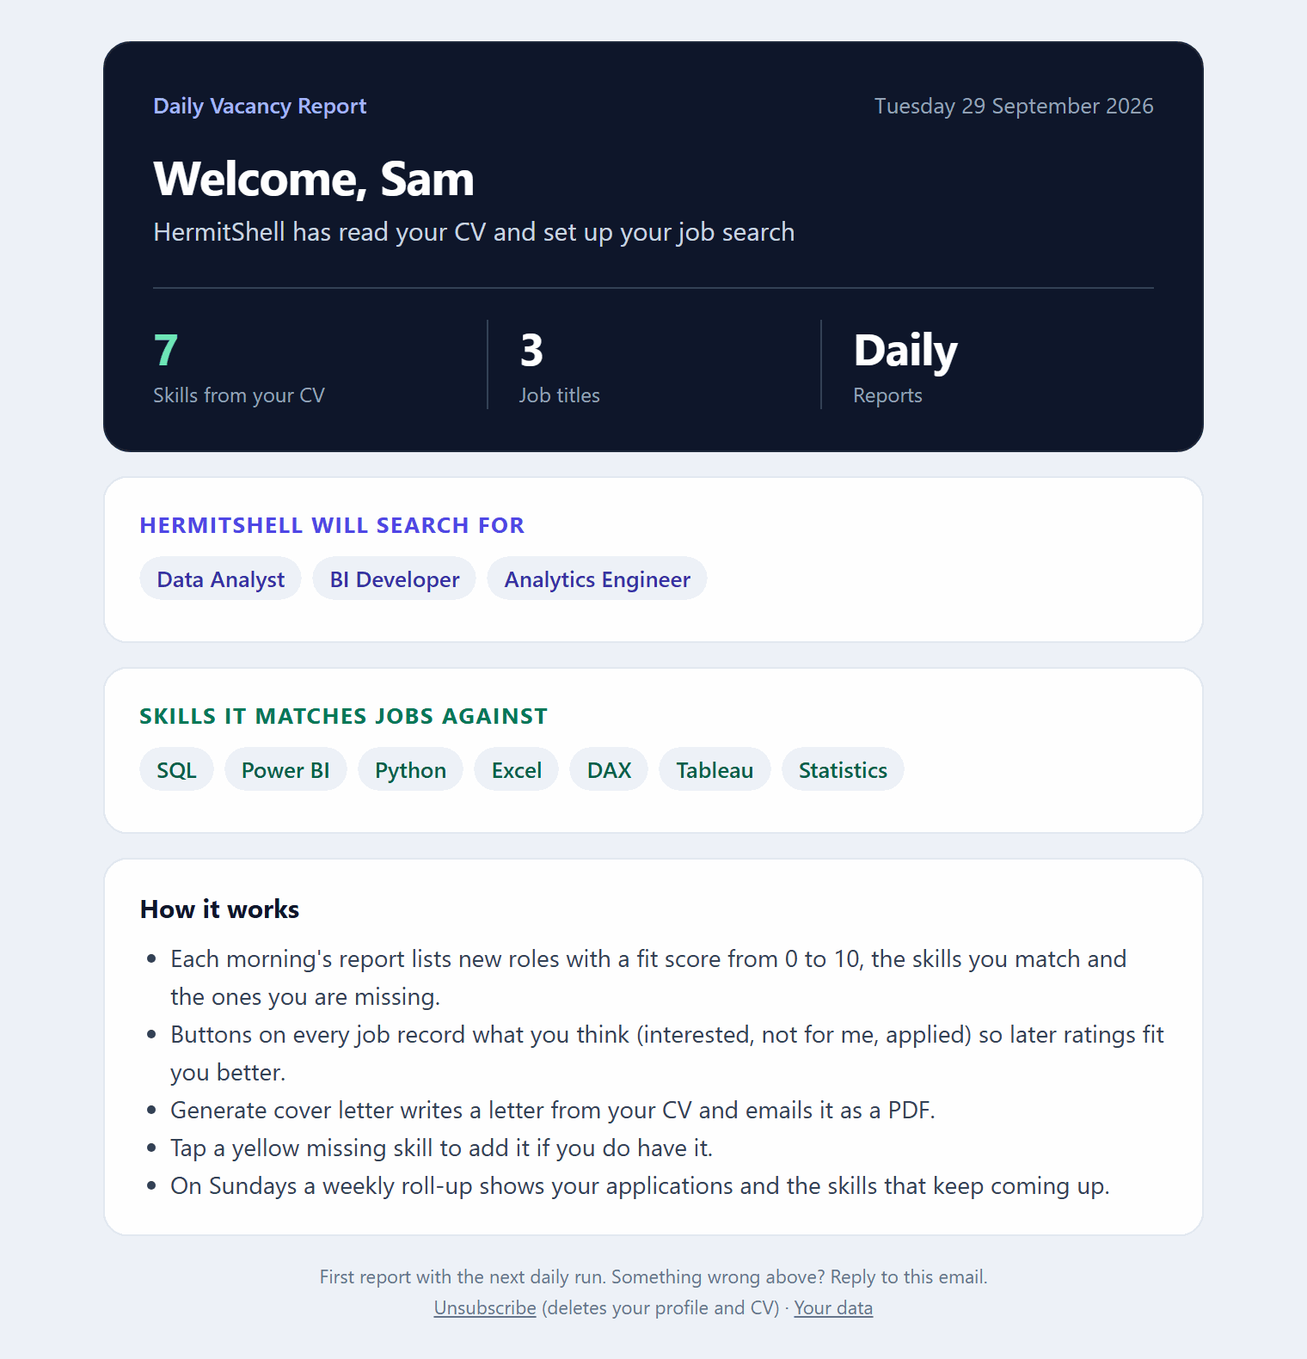
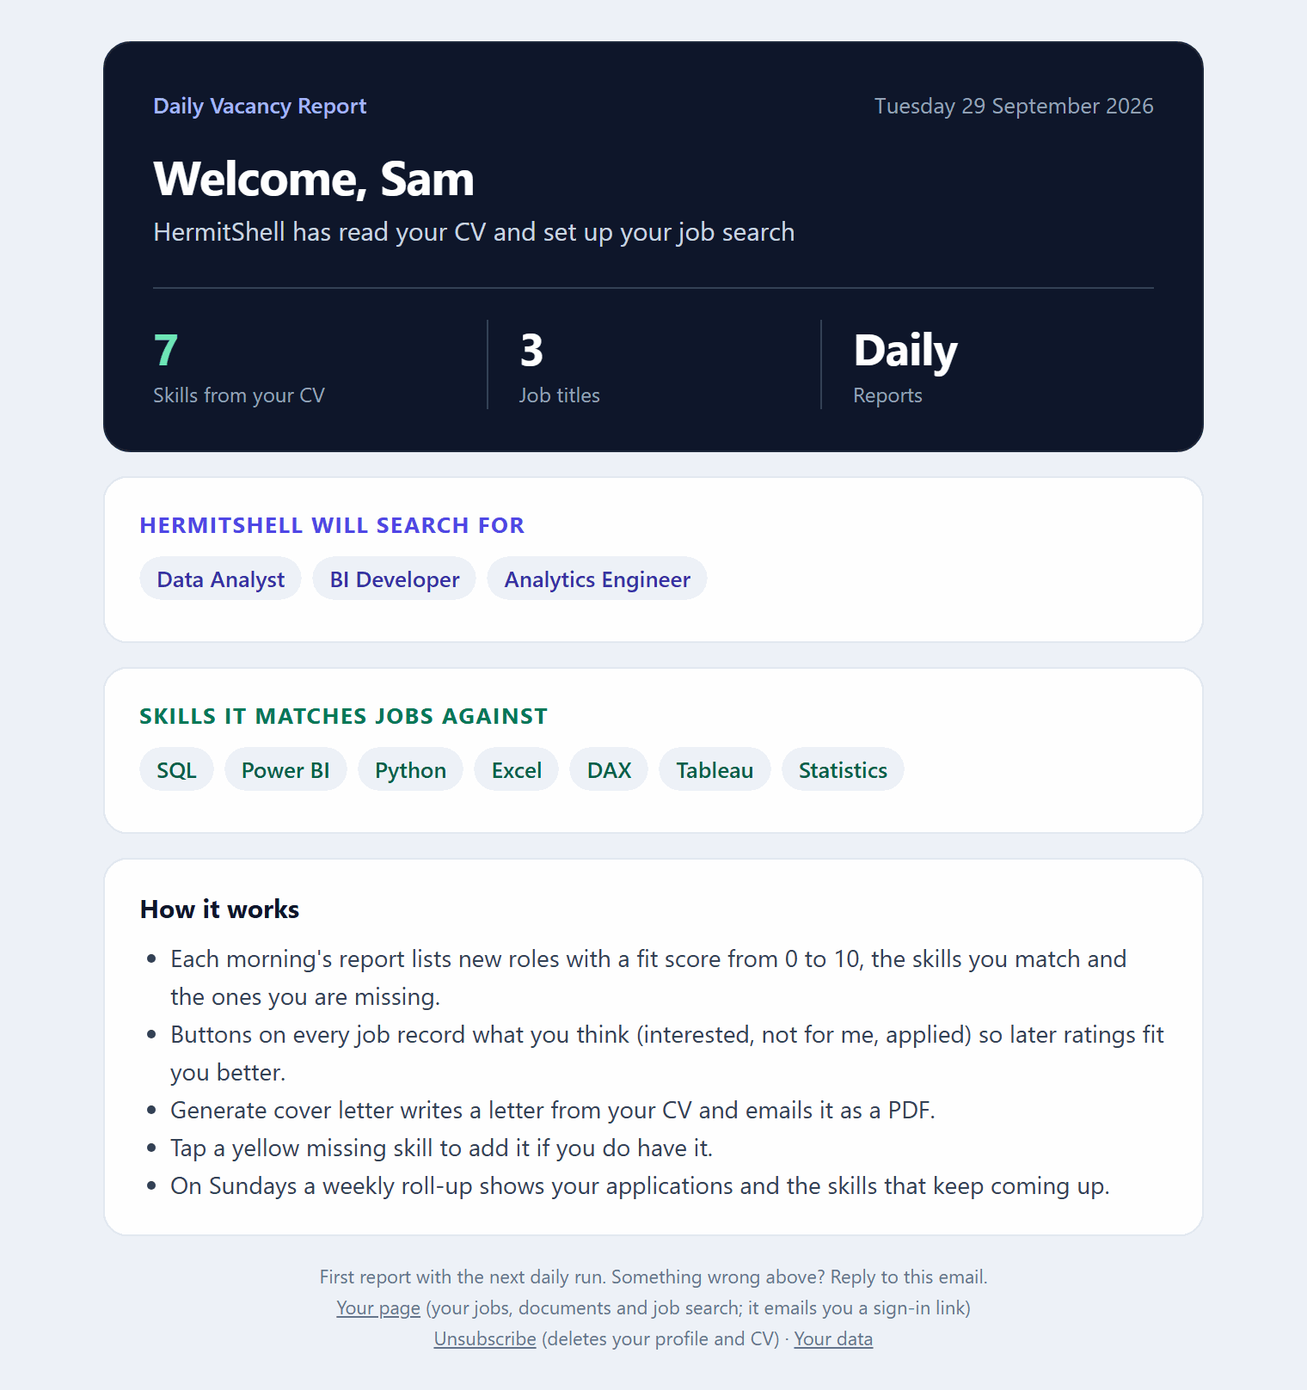
Your page link in recruits' emails
While HERMES_SELF_SERVICE is on, a recruit's daily report, weekly roll-up and
welcome email end with a plain Your page link to <JOB_FEEDBACK_URL>/me beside
Unsubscribe. It carries no token, so a forwarded email signs nobody in. The
main admin's reports, emails sent while the switch is off and non-https Worker
addresses leave it out. Unit and security tests, docs, changelog and the
welcome email screenshot.

diff --git a/packages/daily-vacancy-report/job_scanner.py b/packages/daily-vacancy-report/job_scanner.py
@@ -60,8 +60,8 @@ from job_extras import (below_min_salary, closing_date, combined_level, days_lef
                         parse_salary, prescreened_out, rating_failed, rating_profile, repost_key, second_look,
                         second_opinion, settle_second, trim_listing,
                         triage_titles)
-from job_tracker import (ACTIONS, Tracker, card_links, followup_actions, prompt_examples, skill_link, skills_text,
-                         sync_feedback, unsubscribe_link)
+from job_tracker import (ACTIONS, Tracker, card_links, followup_actions, own_page_link, prompt_examples, skill_link,
+                         skills_text, sync_feedback, unsubscribe_link)
 from job_weekly import (ICON_DIR, card_action_bar, build_weekly, closing_pill, followup_section, followup_text,
                         mini_buttons, rating_buttons, source_banner, unsubscribe_footer, weekly_when)
 
@@ -1052,7 +1052,7 @@ def build_html(top: list[dict], maybe: list[dict], stats: dict, summary: str, pr
   {empty}
   {followups}
   {report_footer(stats)}
-  {unsubscribe_footer(stats.get("unsubscribe", ""), not env("JOB_PROFILE_ID"))}
+  {unsubscribe_footer(stats.get("unsubscribe", ""), not env("JOB_PROFILE_ID"), stats.get("own_page", ""))}
 </td></tr>
 </table></td></tr></table></body></html>"""
 
@@ -1092,10 +1092,16 @@ def report_unsubscribe_link() -> str:
                             CFG.candidate if CFG.candidate != "the candidate" else "you", env("JOB_PROFILE_ID", "") or "")
 
 
+def report_own_page_link() -> str:
+    return own_page_link(env("JOB_FEEDBACK_URL", "") or "", env("JOB_PROFILE_ID", "") or "",
+                         hc.env_bool("HERMES_SELF_SERVICE", False))
+
+
 def send_weekly(tracker: Tracker, tz: ZoneInfo, dry_run: bool) -> int:
     now = time.time()
     subject, html_body, text = build_weekly(tracker.week(now - 7 * 86400), weekly_when(tz), CFG.title,
-                                            CFG.region or "Job radar", now, report_unsubscribe_link())
+                                            CFG.region or "Job radar", now, report_unsubscribe_link(),
+                                            report_own_page_link())
     hc.write_private(STATE_DIR / "job_scanner_weekly.html", html_body)
     if dry_run:
         print(f"{subject} [dry run, report at {STATE_DIR / 'job_scanner_weekly.html'}]")
@@ -1545,12 +1551,14 @@ def run(args: argparse.Namespace) -> int:
         "excluded_closed": excluded_closed, "reposts": reposts, "grouped": grouped, "verify_from": verify_from,
         "prescreened": prescreened,
         "feedback": bool(fb_url and fb_secret), "unsubscribe": report_unsubscribe_link(),
+        "own_page": report_own_page_link(),
         "sources": ", ".join(f"{name} {info['found']}" for name, info in health.items()) or "none",
         "web_usage": web.usage(), "cv_added": cv_added,
     }
     html_body = fitted_html(top, maybe, stats, summary, problems, followups_html)
     text_body = (f"Added to your CV: {', '.join(cv_added)}\n\n" if cv_added else "") + \
         build_text(results, summary, followup_text(followups)) + \
+        (f"\n\nYour page (your jobs, documents and job search): {stats['own_page']}" if stats["own_page"] else "") + \
         (f"\n\nUnsubscribe: {stats['unsubscribe']}" if stats["unsubscribe"] else "")
     hc.write_private(LAST_REPORT, preview_html(html_body))
     hc.write_private(LAST_RESULTS, json.dumps({"generated": when, "model": model, "summary": summary, "sources": health,

diff --git a/packages/daily-vacancy-report/job_weekly.py b/packages/daily-vacancy-report/job_weekly.py
@@ -260,18 +260,25 @@ STATUS_LABELS = {"applied": "Waiting", "heard_back": "Heard back", "rejected": "
                  "placed": "Placed"}
 
 
-def unsubscribe_footer(link: str, paused_only: bool = False) -> str:
-    """Last line of every report: the Worker link that stops these emails (after a confirmation page)."""
-    if not link:
+def unsubscribe_footer(link: str, paused_only: bool = False, own_page: str = "") -> str:
+    """Last line of every report: the recruit's own page, when it is on, and the Worker link that stops these emails
+    (after a confirmation page)."""
+    parts = []
+    if own_page:
+        parts.append(f'<a href="{esc(own_page)}" style="color:{C_MUTED};text-decoration:underline">Your page</a> '
+                     "(your jobs, documents and job search)")
+    if link:
+        effect = "pauses your reports" if paused_only else "deletes your profile, CV and history"
+        parts.append(f'<a href="{esc(link)}" style="color:{C_MUTED};text-decoration:underline">Unsubscribe</a> ({effect})')
+    if not parts:
         return ""
-    effect = "pauses your reports" if paused_only else "deletes your profile, CV and history"
     return (f'<div style="font-size:11px;color:{C_MUTED};line-height:18px;padding:8px 6px 0;text-align:center">'
-            f'<a href="{esc(link)}" style="color:{C_MUTED};text-decoration:underline">Unsubscribe</a> ({effect})</div>')
+            f'{" &middot; ".join(parts)}</div>')
 
 
 def build_weekly(data: dict, when: str, title: str, eyebrow: str, now: float,
-                 unsubscribe: str = "") -> tuple[str, str, str]:
-    """(subject, html, text) for the weekly roll-up; `unsubscribe` is the footer's unsubscribe link."""
+                 unsubscribe: str = "", own_page: str = "") -> tuple[str, str, str]:
+    """(subject, html, text) for the weekly roll-up; `unsubscribe` and `own_page` are the footer's links."""
     s = weekly_summary(data)
     spread_rows = "".join(_bar(k, v, max(1, s["rated"]), c) for (k, v), c in
                           zip(s["spread"].items(), ("#059669", "#0d9488", "#d97706", "#dc2626")))
@@ -318,7 +325,7 @@ def build_weekly(data: dict, when: str, title: str, eyebrow: str, now: float,
   {_card("Fit scores this week", f'<table width="100%" cellpadding="0" cellspacing="0">{spread_rows}</table>')}
   {_card("Source health", f'<table width="100%" cellpadding="0" cellspacing="0">{health}</table>'
          f'<div style="font-size:12px;color:{C_MUTED};margin-top:8px">{s["runs"]} daily runs recorded this week.</div>')}
-  {unsubscribe_footer(unsubscribe, "j=profile-pause" in unsubscribe)}
+  {unsubscribe_footer(unsubscribe, "j=profile-pause" in unsubscribe, own_page)}
 </td></tr>
 </table></td></tr></table></body></html>"""
     text = "\n".join([
@@ -331,6 +338,7 @@ def build_weekly(data: dict, when: str, title: str, eyebrow: str, now: float,
         "", "Common gaps: " + (", ".join(f"{g} ({c})" for g, c in s["gaps"]) or "none"),
         *(["", f"Typical salaries this week: {salary_line(s['salaries'])}"] if s["salaries"] else []),
         "", "Sources: " + (", ".join(f"{n} {i['found']} found" for n, i in s["sources"].items()) or "no runs"),
+        *(["", f"Your page (your jobs, documents and job search): {own_page}"] if own_page else []),
         *(["", f"Unsubscribe: {unsubscribe}"] if unsubscribe else []),
     ])
     subject = f"{title}: your week ({s['rated']} rated, {s['applied_week']} applied)"

diff --git a/packages/daily-vacancy-report/tests/test_vacancy_report.py b/packages/daily-vacancy-report/tests/test_vacancy_report.py
@@ -19,8 +19,8 @@ sys.path[:0] = [str(PACKAGE), str(PACKAGE.parents[1] / "common")]
 import job_tracker  # noqa: E402
 from job_extras import (below_min_salary, closing_date, combined_level, days_left,  # noqa: E402
                         group_agency_posts, parse_salary, rating_failed, repost_key)
-from job_tracker import (Tracker, action_link, card_links, prompt_examples, sign, skill_link,  # noqa: E402
-                         skills_text, sync_feedback, unsubscribe_link)
+from job_tracker import (Tracker, action_link, card_links, own_page_link, prompt_examples, sign,  # noqa: E402
+                         skill_link, skills_text, sync_feedback, unsubscribe_link)
 
 # The feedback Worker's test suite checks the same values (feedback-worker/test/worker.test.js).
 KNOWN_SIGNATURE = "bf5b2947e5f2b792d5a56680ef7d8ab8"
@@ -193,6 +193,39 @@ def test_report_footers_offer_unsubscribe():
     _, page, plain = build_weekly(data, "this week", "Job radar", "Weekly", time.time(), "https://x/f?j=profile-pause&u=")
     assert "Unsubscribe</a> (pauses your reports" in page and plain.endswith("Unsubscribe: https://x/f?j=profile-pause&u=")
     assert "&rarr;" not in page and "\u2192" not in page
+    assert "Your page" not in page and "Your page" not in plain
+
+
+def test_report_footers_link_a_recruits_own_page_while_it_is_on():
+    from job_weekly import build_weekly, unsubscribe_footer
+
+    assert own_page_link("https://x/", "sam-lee", True) == "https://x/me"
+    assert own_page_link("https://x", "sam-lee", False) == ""
+    assert own_page_link("https://x", "", True) == ""
+    assert own_page_link("http://x.example", "sam-lee", True) == ""
+    assert own_page_link("", "sam-lee", True) == ""
+    footer = unsubscribe_footer("https://x/f?j=profile&u=sam-lee", False, "https://x/me")
+    assert footer.index(">Your page</a>") < footer.index(">Unsubscribe</a>") and " &middot; " in footer
+    assert ">Your page</a>" in unsubscribe_footer("", False, "https://x/me")
+    data = {"jobs": [], "events": [], "runs": [], "applications": []}
+    _, page, plain = build_weekly(data, "this week", "Job radar", "Weekly", time.time(), "https://x/f?j=profile&u=sam-lee",
+                                  "https://x/me")
+    assert '<a href="https://x/me"' in page
+    assert "Your page (your jobs, documents and job search): https://x/me\n\nUnsubscribe: " in plain
+
+
+def test_the_daily_reports_own_page_link_follows_the_switch_and_the_profile(monkeypatch):
+    import job_scanner as js
+
+    monkeypatch.setenv("JOB_FEEDBACK_URL", "https://x")
+    monkeypatch.setenv("JOB_PROFILE_ID", "sam-lee")
+    monkeypatch.setenv("HERMES_SELF_SERVICE", "1")
+    assert js.report_own_page_link() == "https://x/me"
+    monkeypatch.setenv("HERMES_SELF_SERVICE", "0")
+    assert js.report_own_page_link() == ""
+    monkeypatch.setenv("HERMES_SELF_SERVICE", "1")
+    monkeypatch.delenv("JOB_PROFILE_ID")
+    assert js.report_own_page_link() == ""
 
 
 # --------------------------------------------------------------------------- tracker

diff --git a/packages/daily-vacancy-report/tests/test_profiles.py b/packages/daily-vacancy-report/tests/test_profiles.py
@@ -126,6 +126,7 @@ def test_signup_builds_a_profile_from_the_cv(home):
     assert welcome["to"] == "sam@example.com" and "Data Analyst" in welcome["html"]
     assert "a=unsubscribe" in welcome["html"] and f"u={pid}" in welcome["html"]
     assert "Unsubscribe</a> (deletes your profile and CV)" in welcome["html"] and ">Your data</a>" in welcome["html"]
+    assert "Your page" not in welcome["html"] and "/me" not in welcome["text"]
     assert owner_note["to"] == "owner@example.com" and "New recruit: Sam Lee" in owner_note["subject"]
     assert "Recruits" in owner_note["html"] and "Profiles" not in owner_note["html"]
     assert '/admin" style="color:#4f46e5">Manage recruits</a>' in owner_note["html"]
@@ -137,6 +138,23 @@ def test_signup_builds_a_profile_from_the_cv(home):
     assert profiles.os.environ["ALERT_EMAIL"] == "owner@example.com"
     ids = [p["id"] for p in api.statuses[-1]["profiles"]]
     assert ids == ["owner", pid]
+
+
+def test_the_welcome_email_links_their_own_page_only_while_it_is_on(home, monkeypatch):
+    _, sent = home
+    built = {"titles": ["Data Analyst"], "skills": [{"name": "SQL"}]}
+    recruit = {"id": "sam-lee", "name": "Sam Lee", "email": "sam@example.com"}
+    monkeypatch.setenv("HERMES_SELF_SERVICE", "0")
+    profiles.send_welcome(recruit, built, False)
+    assert "Your page" not in sent[-1]["html"] and "/me" not in sent[-1]["text"]
+    monkeypatch.setenv("HERMES_SELF_SERVICE", "1")
+    profiles.send_welcome(recruit, built, False)
+    welcome = sent[-1]
+    assert '<a href="https://fb.example.workers.dev/me" style="color:#64748b">Your page</a>' in welcome["html"]
+    assert "Your page (your jobs, documents and job search): https://fb.example.workers.dev/me\n" in welcome["text"]
+    monkeypatch.setenv("JOB_FEEDBACK_URL", "http://fb.example.workers.dev")
+    profiles.send_welcome(recruit, built, False)
+    assert "Your page" not in sent[-1]["html"]
 
 
 def test_the_new_recruit_email_is_sections_not_one_paragraph(home):

diff --git a/packages/daily-vacancy-report/profiles.py b/packages/daily-vacancy-report/profiles.py
@@ -61,7 +61,7 @@ import worker_link
 import worker_seal
 from hermes_common import EMAIL_HEAD, STATE_DIR, connect_model, email_header, env, load_env_file, log, ollama_chat
 from job_settings import slug, term_regex
-from job_tracker import Tracker, sync_feedback, unsubscribe_link
+from job_tracker import Tracker, own_page_link, sync_feedback, unsubscribe_link
 
 SCRIPT_DIR = Path(__file__).resolve().parent
 PROFILES_DIR = Path(env("JOB_PROFILES_DIR") or STATE_DIR / "profiles")
@@ -736,12 +736,16 @@ def send_welcome(profile: dict, built: dict, updated: bool) -> None:
         f'<div style="font-size:15px;font-weight:700">How it works</div>{how}',
     ]
     privacy = f"{hc.env('JOB_FEEDBACK_URL', '').rstrip('/')}/privacy" if unsub else ""
+    page = own_page_link(env("JOB_FEEDBACK_URL", "") or "", profile["id"], features()["self_service"])
     footer = ("First report with the next daily run. Something wrong above? Reply to this email."
+              + (f'<br><a href="{html.escape(page)}" style="color:#64748b">Your page</a> (your jobs, documents and '
+                 "job search; it emails you a sign-in link)" if page else "")
               + (f'<br><a href="{html.escape(unsub)}" style="color:#64748b">Unsubscribe</a> (deletes your profile and CV)'
                  f' &middot; <a href="{html.escape(privacy)}" style="color:#64748b">Your data</a>' if unsub else ""))
     text = (f"{title}\n\nHermitShell will search for: {', '.join(built['titles'])}\n"
             f"Skills: {', '.join(s['name'] for s in built['skills'])}\n\n"
             "Your first report arrives with the next daily run."
+            + (f"\n\nYour page (your jobs, documents and job search): {page}" if page else "")
             + (f"\n\nUnsubscribe: {unsub}\nHow your data is handled: {privacy}" if unsub else ""))
     send(profile["email"], f"{FROM_NAME}: {title.lower() if updated else 'your profile is ready'}",
          _email(header, blocks, footer), text)

diff --git a/tests/security/test_security.py b/tests/security/test_security.py
@@ -1053,6 +1053,24 @@ def test_a_sign_in_link_is_built_from_this_servers_worker_address_only(monkeypat
     assert "<script>" not in html_body
 
 
+def test_the_your_page_link_in_emails_never_signs_anyone_in(monkeypatch):
+    import job_scanner
+    from job_weekly import unsubscribe_footer
+
+    monkeypatch.setenv("HERMES_SELF_SERVICE", "1")
+    monkeypatch.setenv("JOB_FEEDBACK_URL", "https://fb.example.workers.dev/")
+    monkeypatch.setenv("JOB_FEEDBACK_SECRET", "test-secret")
+    monkeypatch.setenv("JOB_PROFILE_ID", "alex-morgan")
+    link = job_scanner.report_own_page_link()
+    assert link == "https://fb.example.workers.dev/me"
+    footer = unsubscribe_footer("", False, link)
+    assert "?" not in footer and "test-secret" not in footer and "alex-morgan" not in footer
+    monkeypatch.setenv("JOB_FEEDBACK_URL", 'https://fb.example.workers.dev/"><script>')
+    assert "<script>" not in unsubscribe_footer("", False, job_scanner.report_own_page_link())
+    monkeypatch.setenv("JOB_FEEDBACK_URL", "http://fb.example.workers.dev")
+    assert job_scanner.report_own_page_link() == ""
+
+
 @pytest.mark.skipif(not NODE, reason="needs node for the Worker's apiauth.js")
 def test_the_worker_and_hermitshell_sign_identically():
     import secrets as pysecrets

diff --git a/scripts/screenshots/make.py b/scripts/screenshots/make.py
@@ -277,7 +277,9 @@ def render_emails(out: Path) -> dict[str, str]:
     profiles.load = lambda pid: next((p for p in people if p["id"] == pid), None)
     built = {"titles": ["Data Analyst", "BI Developer", "Analytics Engineer"],
              "skills": [{"name": s} for s in ["SQL", "Power BI", "Python", "Excel", "DAX", "Tableau", "Statistics"]]}
+    os.environ["HERMES_SELF_SERVICE"] = "1"
     profiles.send_welcome({"id": "sam-lee", "name": "Sam Lee", "email": "sam.lee@example.com"}, built, False)
+    del os.environ["HERMES_SELF_SERVICE"]
     pages["welcome"] = sent.pop()
     profiles.send_new_recruit({"id": "sam-lee", "name": "Sam Lee", "email": "sam.lee@example.com", "location": "Belfast",
                                "roles": "Data analyst or BI developer, hybrid"}, built, False)

diff --git a/packages/daily-vacancy-report/job_tracker.py b/packages/daily-vacancy-report/job_tracker.py
@@ -138,6 +138,13 @@ def unsubscribe_link(base_url: str, secret: str, name: str, profile: str = "") -
                  secret, profile)
 
 
+def own_page_link(base_url: str, profile: str, enabled: bool) -> str:
+    """Report footer link to a recruit's own page (/me), where they ask for a one-time sign-in link. It signs nobody
+    in, so a forwarded email gives nothing away. "" for the main admin, while the page is off or without https."""
+    base = secure_base(base_url)
+    return f"{base}/me" if enabled and profile and base else ""
+
+
 # --------------------------------------------------------------------------- store
 
 SCHEMA = """

diff --git a/docs/configuration.md b/docs/configuration.md
@@ -307,7 +307,7 @@ when its best case is below the minimum.
 | `JOB_FEEDBACK_SECRET` | none | Signs the button links and every request HermitShell makes to the Worker; the Worker holds the same value |
 | `JOB_FEEDBACK_API_TOKEN` | none | Lets HermitShell fetch and clear answers from the Worker (signed requests only, once the Worker has seen one) |
 | `INTERVIEW_PREP_AUTO` | `0` | `1` = make an interview prep pack by itself when a job reaches Interview (once per job, only for interviews in the last two days). Also the **Interview prep packs on Interview** switch under Features on Global settings. The **Interview prep** buttons on the dashboard work either way |
-| `HERMES_SELF_SERVICE` | `0` | `1` = recruits can sign in at `/me` on the feedback Worker with a one-time link emailed to them, to see the jobs sent to them and their documents and change their job search and report time (Worker and HermitShell protocol 6). Also the **Recruits' own page (/me)** switch under Features. While it is off, `/me` is a 404 and HermitShell sends no sign-in links |
+| `HERMES_SELF_SERVICE` | `0` | `1` = recruits can sign in at `/me` on the feedback Worker with a one-time link emailed to them, to see the jobs sent to them and their documents and change their job search and report time (Worker and HermitShell protocol 6). Also the **Recruits' own page (/me)** switch under Features. While it is on, recruits' daily reports, weekly roll-ups and welcome emails end with a plain **Your page** link to `/me` (no token in it). While it is off, `/me` is a 404, the link is left out and HermitShell sends no sign-in links |
 | `DOC_WORD_COPIES` | `0` | `1` = save a Word copy (`.docx`) beside each cover letter, tailored CV and interview prep pack, attach it to the same email and offer it under **Download** on the dashboard (from Worker protocol 5). Also the **Word copies of letters and CVs** switch under Features. Leave it off until you have opened one in Word or LibreOffice |
 | `COVER_LETTER_KEEP_DAYS` | `7` | Days a finished cover letter, tailored CV or interview prep pack is reused (a request with no note sends it again instead of writing a new one) and kept, encrypted, on the Worker for download from the email buttons and the dashboard's Jobs sent list. At most `30`; `0` = neither |
 | `CLOUDFLARE_ACCOUNT_ID` | none | Account the wizard and `scripts/cloudflare_worker.py` deploy the Worker to |

diff --git a/docs/feedback-worker.md b/docs/feedback-worker.md
@@ -1183,6 +1183,11 @@ With the **Recruits' own page (/me)** switch under Features on Global settings (
 default; it needs Worker and HermitShell protocol 6), each active recruit can sign in at `/me` with a link
 emailed to the address their reports go to. While it is off, every `/me` address is a 404.
 
+- **Finding it:** while the switch is on, a recruit's daily report, weekly roll-up and welcome email end with
+  a **Your page** link beside Unsubscribe. It is the plain `<JOB_FEEDBACK_URL>/me` address with nothing
+  added, so a forwarded email signs nobody in: the page still asks for the address and emails a sign-in
+  link. The main admin's own reports never show it, and nor does any email while the switch is off or
+  `JOB_FEEDBACK_URL` is not https.
 - **Asking for a link:** `/me` asks for the email address. Requests are counted in the hub (5 a minute per
   address range, an IPv6 /64 counting as one; 3 an hour per address, kept as a hash; 50 an hour in total)
   before anything is written to KV, so refused requests cost nothing from the 1,000 writes a day. Every

diff --git a/CHANGELOG.md b/CHANGELOG.md
@@ -8,6 +8,10 @@ using [Semantic Versioning](https://semver.org/).
 
 ### Added
 
+- **Your page link in recruits' emails.** While `HERMES_SELF_SERVICE` is on, a recruit's daily report, weekly
+  roll-up and welcome email end with a **Your page** link beside Unsubscribe (HTML and plain text). It is the
+  plain `<JOB_FEEDBACK_URL>/me` address with no token, so a forwarded email signs nobody in; the main admin's
+  reports, emails sent while the switch is off and non-https Worker addresses leave it out.
 - **Recruits' own page (`/me`).** With `HERMES_SELF_SERVICE=1` (or the **Recruits' own page (/me)** switch
   under Features, off by default; Worker and HermitShell protocol 6) an active recruit can ask for a sign-in
   link at `/me` and see **My jobs**, **My job search** (their job search and report time, saved as their own

diff --git a/docs/screenshots.md b/docs/screenshots.md
@@ -300,7 +300,8 @@ deleted ([data protection](configuration.md#data-protection)).
 `/me`, off until the **Recruits' own page (/me)** switch is on (`HERMES_SELF_SERVICE=1`). A recruit asks for a
 sign-in link with the address their reports go to (every address gets the same answer), and opening the emailed
 link shows a **Sign in** button that works once, within 15 minutes
-([more](feedback-worker.md#recruits-own-page)).
+([more](feedback-worker.md#recruits-own-page)). While the switch is on, recruits' reports and welcome email end
+with a plain **Your page** link to `/me`.
 
 <table><tr><th>Asking for a link</th><th>The link opened</th></tr>
 <tr><td><img src="images/worker/me-ask.png" alt="The sign-in page: the email address reports go to and Email me a sign-in link" width="320"></td>
